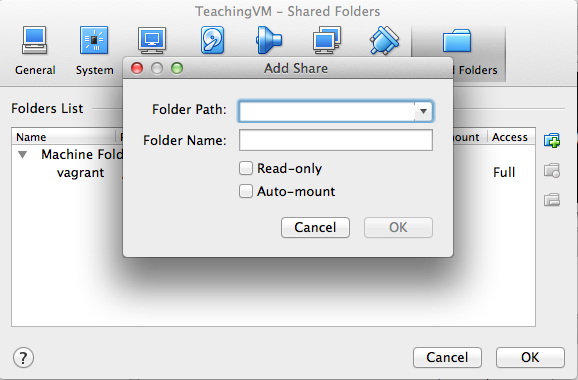
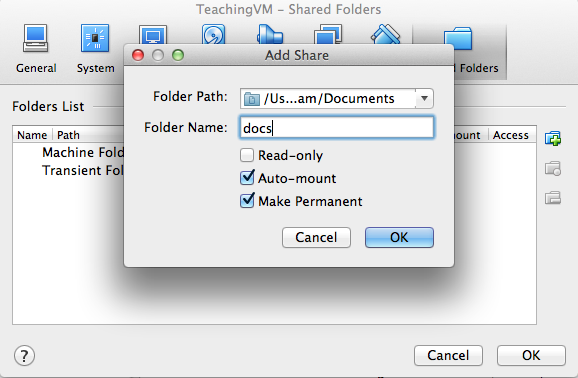
Updated instructions for VM, shared folders

diff --git a/Readme.md b/Readme.md
@@ -17,27 +17,52 @@ Putty is used to SSH into your VM.
 
 ## Setting Up Shared folders
 
-### Step 1: In VirtualBox select TeachingVM
+### Step 1: Install VBoxGuestAdditions (virtualbox guest additions)
+```
+sudo mkdir /media/ga
+sudo mount -o loop VBoxGuestAdditions_4.3.28.iso /media/ga
+cd /media/ga/
+sudo ./VBoxLinuxAdditions.run 
+```
+
+Above we're creating a folder `ga` and mounting the VBoxGuestAdditions `.iso` to that folder. Then
+we go into the folder and install guest additions by running `sudo ./VboxLinuxAdditions.run`.
+
+### Step 2: In VirtualBox select TeachingVM
 
 ![Select TeachingVM](/screenshots/shared-folders/1-virtualbox.png?raw=true "Select TeachingVM")
 
-### Step 2: Click Settings
+### Step 3: Click Settings
 
 ![Settings](/screenshots/shared-folders/2-settings.png?raw=true "Settings")
 
-### Step 3: Click Shared Folders
+### Step 4: Click Shared Folders
 
 ![Shared Folders](/screenshots/shared-folders/3-shared-folders.png?raw=true "Shared Folders")
 
-## Step 4: Click the + folder to add a new shared folder
+## Step 5: Click the + folder to add a new shared folder
 
 ![Add Shared Folders](/screenshots/shared-folders/4-add-shared-folder.png?raw=true "Add Shared Folder")
 
 * Folder Path: Select your Documents folder
-* Folder Name: `/home/vagrant/documents`
+* Folder Name: `docs`
 * Click Ok!
+* Restart your VM (right click on VM, close > Power Off, then start it again)
+
+## Step 6: Mounting the shared folder into the VM
+
+We've installed guest additions, and selected the folder we want to share, now we need to mount it! Run the following command:
+
+```
+sudo mount -t vboxsf docs /home/vagrant/documents/ -o rw,uid=1000,gid=1000
+```
+
+Unfortunately, if you restart you're VM you'll have to run that command again, to fix that edit `/etc/rc.local` by adding `mount -t vboxsf docs /home/vagrant/documents/ -o rw,uid=1000,gid=1000` above the `exit 0` line.
+
 
 ## Connecting to your VM
+
+While you can connect to yoru VM through the window created by VirtualBox the experience is usually unpleasant! I recommend SSH'ing into the machine via your terminal (Mac) or Putty (windows).
 
 ### Mac 
 
